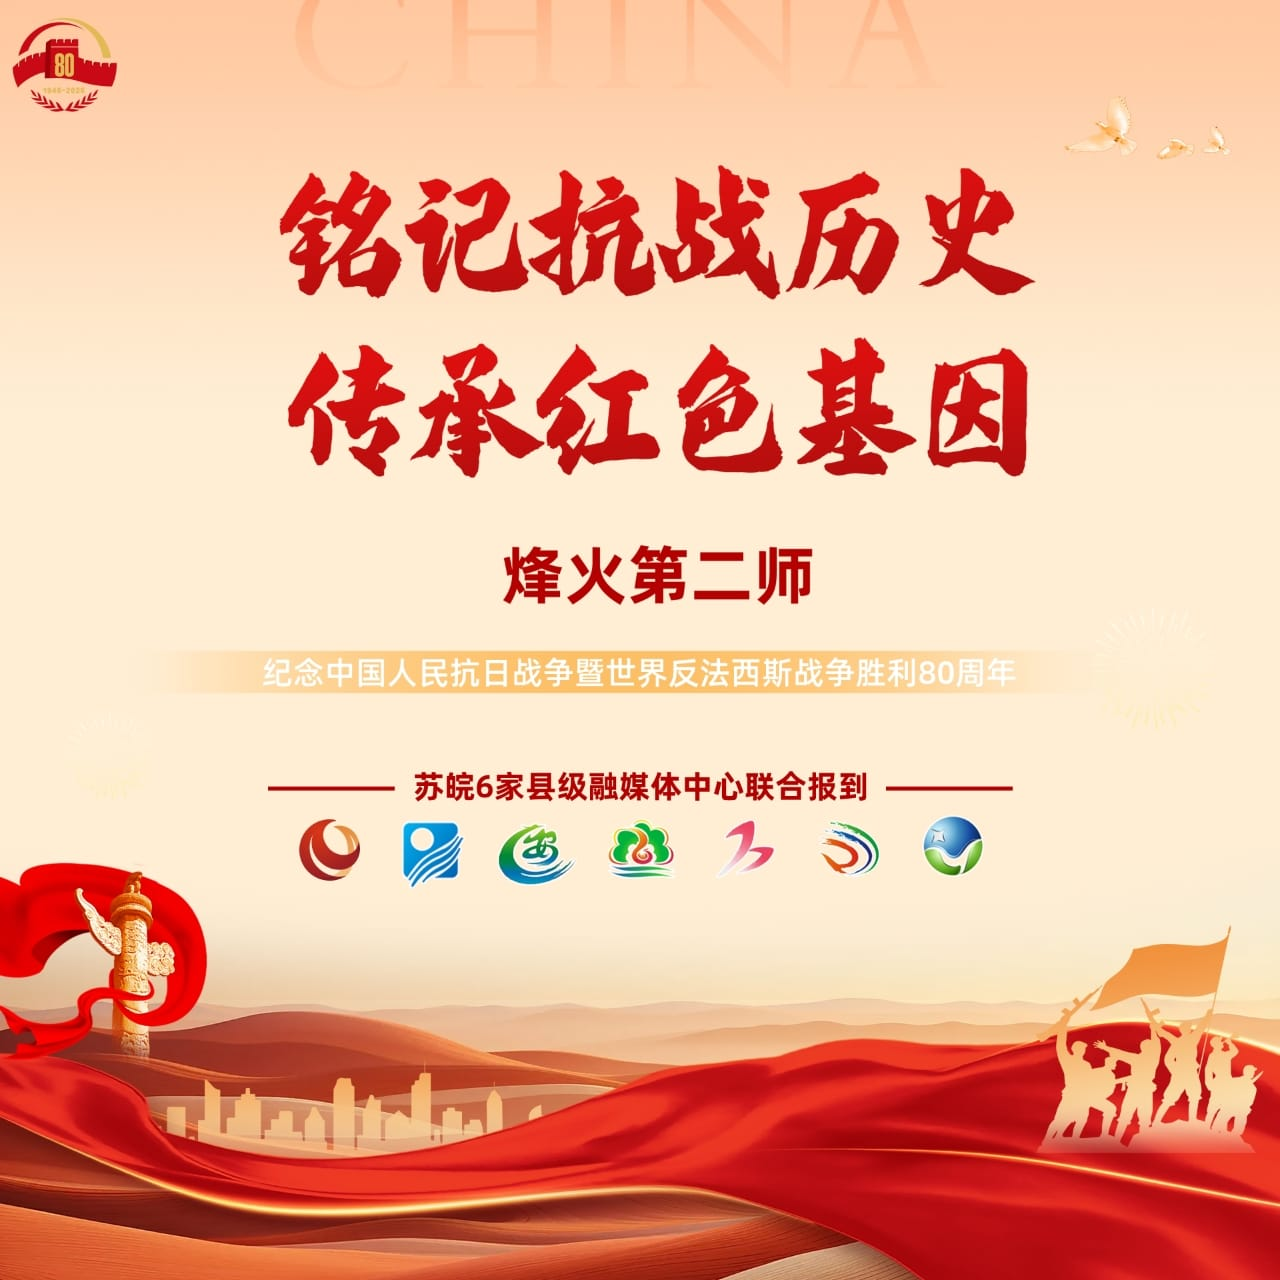
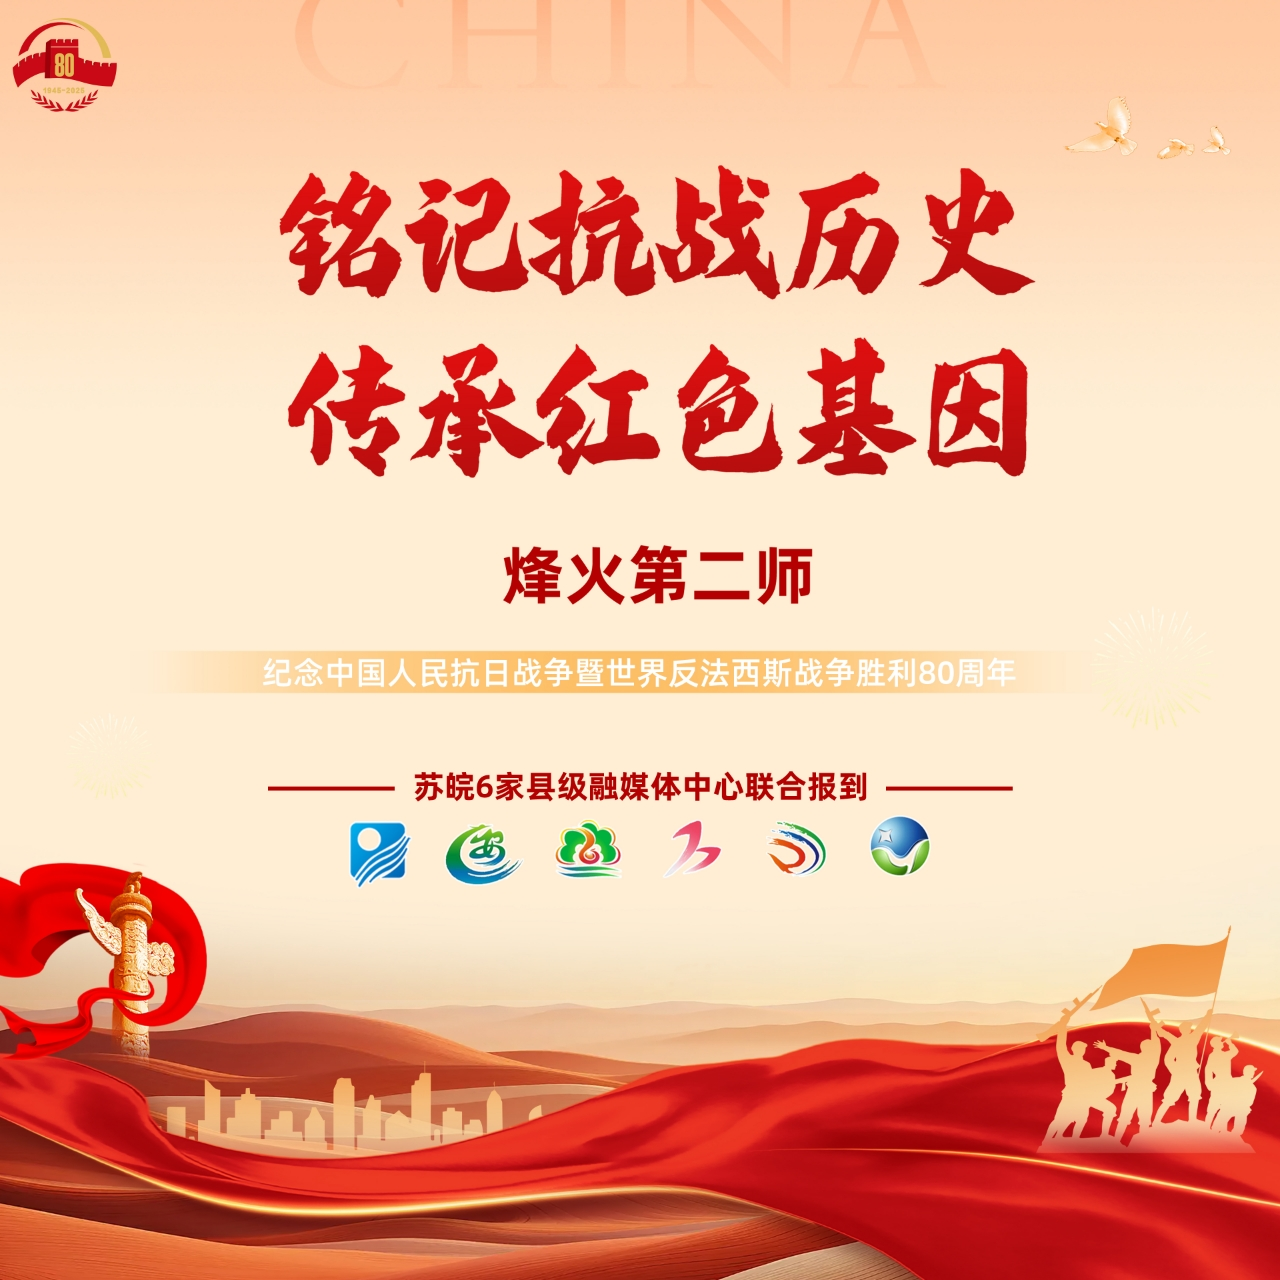
update

Changed region(s): [[0.2188, 0.5938, 0.7812, 0.7188]]

diff --git a/h5-app/src/App.vue b/h5-app/src/App.vue
@@ -323,7 +323,7 @@ onMounted(async () => {
     <!-- 非移动端提示页面 -->
     <div v-if="!isMobile" class="mobile-only-container">
       <div class="mobile-only-content">
-        <img src="@/assets/yz/mustphine.png" alt="请使用手机浏览" class="mobile-hint-image" />
+        <img src="@/assets/yz/mustphine.jpg" alt="请使用手机浏览" class="mobile-hint-image" />
       </div>
     </div>
 
